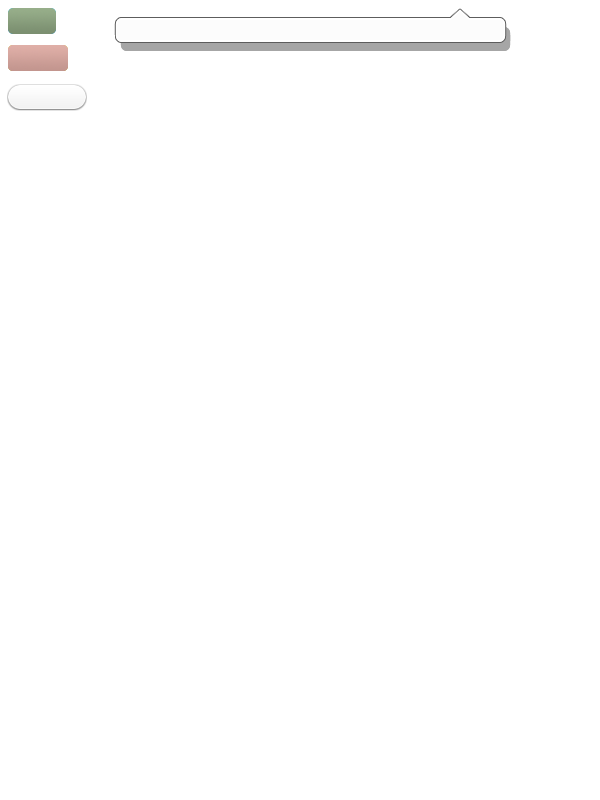
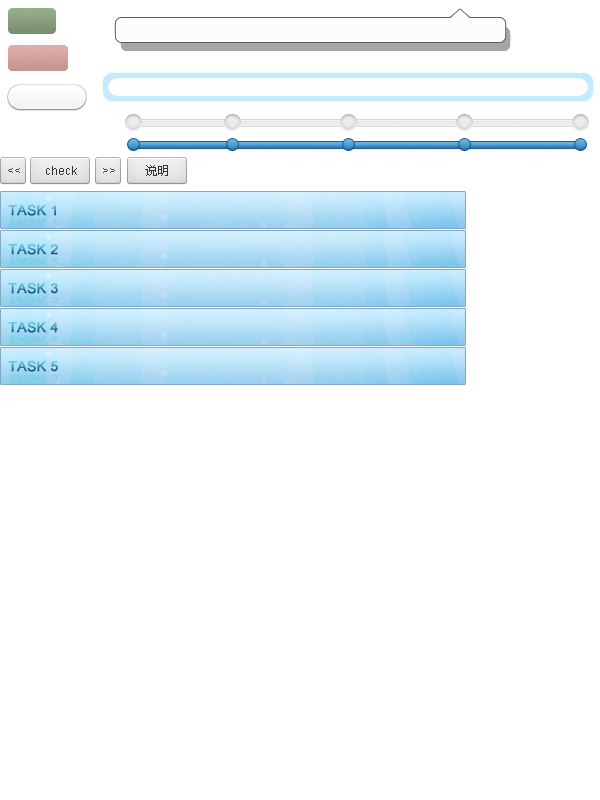
add css

Changed region(s): [[0.0, 0.0938, 0.99, 0.5]]

diff --git a/public/stylesheets/TrainingAll.css b/public/stylesheets/TrainingAll.css
@@ -1,0 +1,50 @@
+@charset "utf-8";
+* { padding: 0; margin: 0;}
+body { font-family: Arial,"宋体", "微软雅黑"; font-size: 12px; background:#000;}
+img { border: none;}
+ul { list-style: none;}
+.space10 { height: 10px;}
+.clear { clear: both;}
+
+.training_box { width: 492px;}
+.tb_top { width: 492px; height: 15px; background: url(/images/paper/all_bg.png) no-repeat -102px -72px;}
+.tb_midd { width: 480px; background: url(/images/paper/Training_m.png) repeat-y; padding: 0 6px;}
+.tb_bott { width: 492px; height: 15px; background: url(/images/paper/all_bg.png) no-repeat -102px -87px;}
+
+.tb_loading { width: 464px; height: 18px; background: url(/images/paper/all_bg.png) no-repeat -125px -114px; margin: 0 auto;}
+.tb_loading_t { width: 464px; height: 18px; background: url(/images/paper/all_bg.png) no-repeat -125px -136px;}
+.width_8 { width: 8px;}
+.width_108 { width: 108px;}
+
+.task_title { width: 466px; height: 38px; margin: 10px auto;}
+.task_title a { float: right; margin: 5px 10px 0 0;}
+
+.task_title_one { background: url(/images/paper/all_bg.png) no-repeat 0px -191px;}
+.task_title_two { background: url(/images/paper/all_bg.png) no-repeat 0px -230px;}
+
+
+.play { height:24px; line-height: 24px;}
+.play_btn { float: left; margin: 0 10px;}
+.tishi { float: left;}
+
+.explain_btn { width: 60px; height:27px; display: block; overflow: hidden; text-indent: 999px; background: url(/images/paper/all_bg.png) no-repeat -127px -157px; margin-left: 400px;}
+
+.tb_content { width: 466px; margin: 0 auto;}
+.tb_con_list { padding: 10px; border: 1px #CCC solid; margin-top: 10px;}
+.chooseQuestion { line-height: 24px; font-size: 12px;}
+.chooseQuestion li { height: 24px;}
+
+
+/*保存答案按钮-----*/
+.p_question_btn { margin-top: 5px; padding-left: 10px;}
+.save, .Uncertain {height: 26px; line-height: 26px; border: none; cursor: pointer; color: #FFF; margin: 0 5px;}
+.save { width: 48px;  background: url(/images/paper/all_bg.png) no-repeat -8px -8px;}
+.Uncertain { width: 60px; background: url(/images/paper/all_bg.png) no-repeat -8px -45px;}
+
+
+/*tb_prevNext*/
+.tb_prevNext { height: 27px; padding-left: 320px; margin-top: 10px;}
+.tb_goleft, .tb_goright { float: left; width: 26px; height: 27px;}
+.tb_goleft { background: url(/images/paper/all_bg.png) no-repeat 0 -157px;}
+.tb_goright { background: url(/images/paper/all_bg.png) no-repeat -95px -157px;}
+.tb_check { float: left; margin: 0 10px; width: 60px; height: 27px; background: url(/images/paper/all_bg.png) no-repeat -30px -157px;}

diff --git a/public/stylesheets/paper.css b/public/stylesheets/paper.css
@@ -5,11 +5,12 @@ ul { list-style: none;}
 img { border: none;}
 .wrap {}
 
-.fraction { position: absolute; bottom: 5px; right: 5px; line-height: 24px; font-size: 12px; color: #666;}
+.fraction { text-align: right;line-height: 24px; font-size: 12px; color: #666;}
+.correctRight_bg { background: #a1e5ff;}
 
-.space5 { height: 5px; overflow: hidden; text-indent: -999px;}
-.space10 { height: 10px; overflow: hidden; text-indent: -999px;}
-.space20 { height: 20px; overflow: hidden; text-indent: -999px;}
+
+.space10 { height: 10px;}
+
 .clear { clear: both;}
 
 
@@ -46,12 +47,12 @@ img { border: none;}
 
 /*答题样式-----*/
 .part_padding { padding: 10px;}
-.part_question { 
+.part_question {
     border-top: 1px #CCC solid;
-	border-left: 1px #CCC solid; 
+	border-left: 1px #CCC solid;
 	border-right: 5px #CCC solid;
-	border-bottom: 5px #CCC solid; 
-	margin-top: 10px; 
+	border-bottom: 5px #CCC solid;
+	margin-top: 10px;
 	background: #FFF;
 }
 
@@ -115,10 +116,10 @@ img { border: none;}
 
 
 .title_shadow { display: inline-block;text-shadow:1px 0 0 #ffffff, 0 1px 0 #ffffff, 0 -1px 0 #ffffff, -1px 0 0 #ffffff, 1px 0 1px #ffffff, 0 1px 1px #ffffff, 0 -1px 1px #ffffff, -1px 0 1px #ffffff;
-   filter: 
-	Dropshadow(offx=1,offy=0,color=#ffffff) 
-    Dropshadow(offx=0,offy=1,color=#ffffff) 
-    Dropshadow(offx=0,offy=-1,color=#ffffff) 
+   filter:
+	Dropshadow(offx=1,offy=0,color=#ffffff)
+    Dropshadow(offx=0,offy=1,color=#ffffff)
+    Dropshadow(offx=0,offy=-1,color=#ffffff)
     Dropshadow(offx=-1,offy=0,color=#ffffff);
 }
 

diff --git a/public/javascripts/jeff_answer_paper.js b/public/javascripts/jeff_answer_paper.js
@@ -73,7 +73,7 @@ function create_block(bocks_div, block,practice_type) {
         block_hidden_nav_div.innerHTML = "<a href='javascript:void(0);' title='本部分答题时间固定，展开时候计时即将开始，请谨慎答题。' onclick='javascript:open_nav(\""+block.id+"\", \""+block.time+"\");'>"+block.base_info.title + "</a><br/>";
     } else {
         block_hidden_nav_div.innerHTML = "<a href='javascript:void(0);' onclick='javascript:open_nav(\""+block.id+"\", \""+block.time+"\");'>"+block.base_info.title + "</a><br/>";
-    }-
+    }
     navigation_div.appendChild(block_hidden_nav_div);
     if (block_block_flag == 0 && (block.time == null || block.time == "" || block.time == "0")) {
         block_div.style.display = "block";

diff --git a/app/controllers/user/combine_practices_controller.rb b/app/controllers/user/combine_practices_controller.rb
@@ -140,7 +140,7 @@ class User::CombinePracticesController < ApplicationController
       question_ids.each do |question_id|
         question_hash[question_id] = [params["answer_" + question_id], "1"]
       end if question_ids
-      @exam_user.auto_add(@exam_user,question_hash) if params[:types].to_i==Examination::TYPES[:OLD_EXAM]
+      @exam_user.auto_add_collection(@exam_user,question_hash) if params[:types].to_i==Examination::TYPES[:OLD_EXAM]
       @exam_user.generate_answer_sheet_url(@exam_user.update_answer_url(@exam_user.open_xml, question_hash), "result")
       @exam_user.submited!
       flash[:notice] = "标准答案已给出，请检查。"

diff --git a/app/helpers/user_role_helper.rb b/app/helpers/user_role_helper.rb
@@ -3,7 +3,8 @@ module UserRoleHelper
 
 
   def is_vip?
-    cookies[:is_vip]=1 if Order.find_by_user_id(cookies[:user_id]) unless cookies[:is_vip]
+    cookies[:is_vip] = false
+    cookies[:is_vip] = true if Order.find_by_user_id(cookies[:user_id]) unless cookies[:is_vip]
     return cookies[:is_vip]
   end
 
